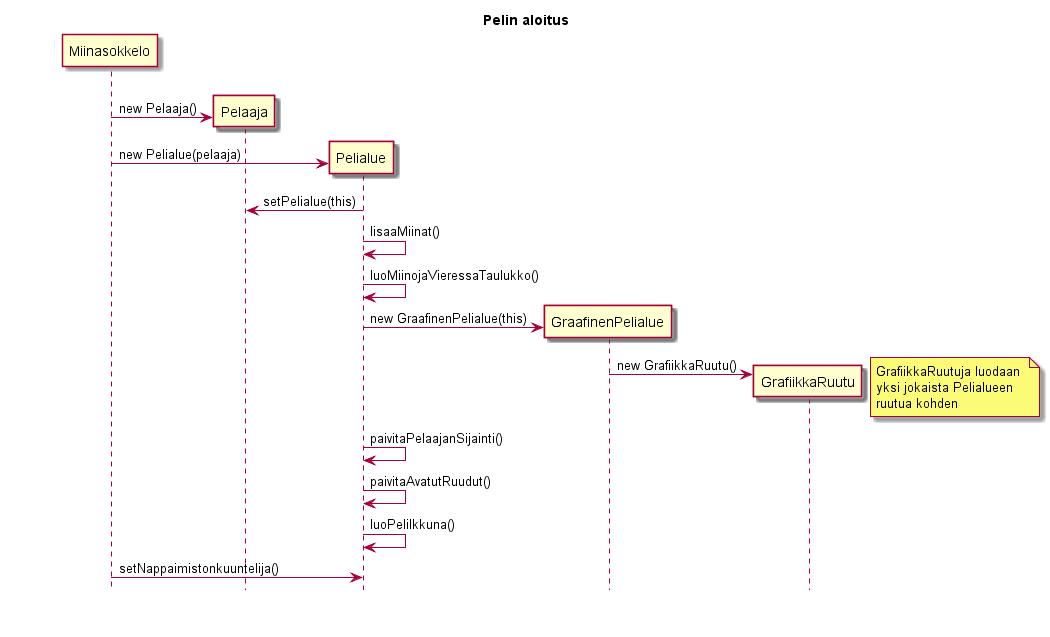
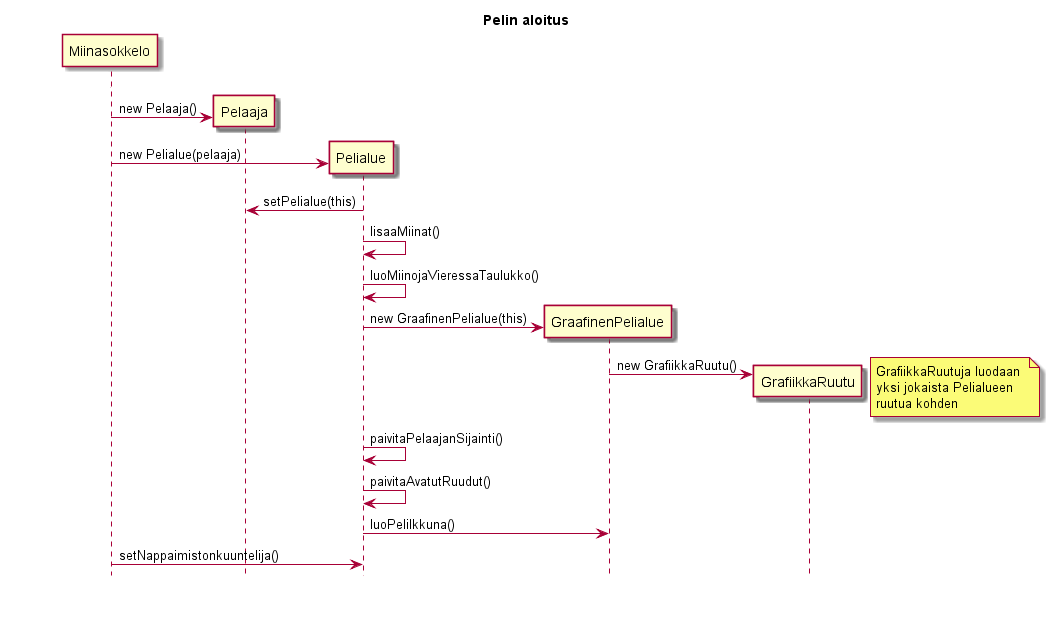
vaihtoehtoinen ohjaustapa, pientä refaktorointia, sekvenssikaavioita

diff --git a/miinasokkelo/src/main/java/miinasokkelo/kayttoliittyma/Nappaimistokuuntelija.java b/miinasokkelo/src/main/java/miinasokkelo/kayttoliittyma/Nappaimistokuuntelija.java
@@ -32,32 +32,56 @@ public class Nappaimistokuuntelija implements KeyListener {
             case KeyEvent.VK_NUMPAD1:
                 pelaaja.liiku("alavasen");
                 break;
+            case KeyEvent.VK_Z:
+                pelaaja.liiku("alavasen");
+                break;
                 
             case KeyEvent.VK_NUMPAD2:
+                pelaaja.liiku("alas");
+                break;
+            case KeyEvent.VK_X:
                 pelaaja.liiku("alas");
                 break;
                 
             case KeyEvent.VK_NUMPAD3:
                 pelaaja.liiku("alaoikea");
                 break;
+            case KeyEvent.VK_C:
+                pelaaja.liiku("alaoikea");
+                break;
                 
             case KeyEvent.VK_NUMPAD4:
+                pelaaja.liiku("vasen");
+                break;
+            case KeyEvent.VK_A:
                 pelaaja.liiku("vasen");
                 break;
                 
             case KeyEvent.VK_NUMPAD6:
                 pelaaja.liiku("oikea");
                 break;
+            case KeyEvent.VK_D:
+                pelaaja.liiku("oikea");
+                break;
                 
             case KeyEvent.VK_NUMPAD7:
+                pelaaja.liiku("ylävasen");
+                break;
+            case KeyEvent.VK_Q:
                 pelaaja.liiku("ylävasen");
                 break;
                 
             case KeyEvent.VK_NUMPAD8:
                 pelaaja.liiku("ylös");
                 break;
+            case KeyEvent.VK_W:
+                pelaaja.liiku("ylös");
+                break;
                 
             case KeyEvent.VK_NUMPAD9:
+                pelaaja.liiku("yläoikea");
+                break;
+            case KeyEvent.VK_E:
                 pelaaja.liiku("yläoikea");
                 break;
                 

diff --git a/miinasokkelo/src/main/java/miinasokkelo/logiikka/Pelialue.java b/miinasokkelo/src/main/java/miinasokkelo/logiikka/Pelialue.java
@@ -1,3 +1,4 @@
+
 package miinasokkelo.logiikka;
 
 import java.util.Random;
@@ -52,10 +53,10 @@ public class Pelialue {
     public void paivitaPelaajanSijainti(int edellinenX, int edellinenY, int x, int y) {
         ruudukko[edellinenY][edellinenX] = 0;
         if (ruudukko[y][x] == 4) {
-            tasoSuoritettu();
+            peliPaattyi("Taso suoritettu!");
         } else if (ruudukko[y][x] == 2) {
             ruudukko[y][x] = 3;
-            pelaajaOsuiMiinaan();
+            peliPaattyi("Miina!");
         } else {
             ruudukko[y][x] = 1;
             paivitaAvatutRuudut();
@@ -138,10 +139,10 @@ public class Pelialue {
         return reitit;
     }
 
-    private void pelaajaOsuiMiinaan() {
+    private void peliPaattyi(String otsikko) {
         pelaaja.poistaOhjaus();
         graafinenPelialue.naytaKaikkiMiinat();
-        graafinenPelialue.naytaUusiPeliKysymys("Miina!");
+        graafinenPelialue.naytaUusiPeliKysymys(otsikko);
     }
 
     public int getRuutu(int x, int y) {
@@ -189,12 +190,6 @@ public class Pelialue {
 
     public int getMiinatRuudunYmparilla(int y, int x) {
         return miinojaVieressa[y][x];
-    }
-
-    private void tasoSuoritettu() {
-        pelaaja.poistaOhjaus();
-        graafinenPelialue.naytaKaikkiMiinat();
-        graafinenPelialue.naytaUusiPeliKysymys("Taso Suoritettu!");
     }
 
     private void avaaRuudutJoidenVieressaEiOleMiinoja(int x, int y, boolean kayty[][]) {

diff --git a/miinasokkelo/src/main/java/miinasokkelo/kayttoliittyma/GraafinenPelialue.java b/miinasokkelo/src/main/java/miinasokkelo/kayttoliittyma/GraafinenPelialue.java
@@ -1,3 +1,4 @@
+
 package miinasokkelo.kayttoliittyma;
 
 import java.awt.Color;
@@ -111,9 +112,7 @@ public class GraafinenPelialue extends JPanel {
         ActionListener nappiListener = new ActionListener() {
             @Override
             public void actionPerformed(ActionEvent e) {
-                if (e.getSource() == uusiPeliNappi) {
                     pelialue.uusiPeli();
-                }
             }
         };       
         miinaviesti.add(uusiPeliNappi);

diff --git a/miinasokkelo/src/main/java/miinasokkelo/kayttoliittyma/GrafiikkaRuutu.java b/miinasokkelo/src/main/java/miinasokkelo/kayttoliittyma/GrafiikkaRuutu.java
@@ -1,3 +1,4 @@
+
 package miinasokkelo.kayttoliittyma;
 
 import java.awt.Color;

diff --git a/dokumentointi/tuntikirjanpito.md b/dokumentointi/tuntikirjanpito.md
@@ -65,3 +65,7 @@
 #### 16.2
 
 1:10 h - Pelin päättyessä näytetään "uusi peli" -ikkuna. Graafisen peli-ikkunan luontimetodi siirretty Pelialue luokasta GraafinenPelialue luokkaan. Miinojen lisäämisessä ollut bugi korjattu.
+
+#### 19.2
+
+1:20 h - Vaihtoehtoinen ohjaustapa (q,w,e,a,s,d,z,x,c). Pientä refaktorointia. Sekvenssikaavioita lisätty/päivitetty.
